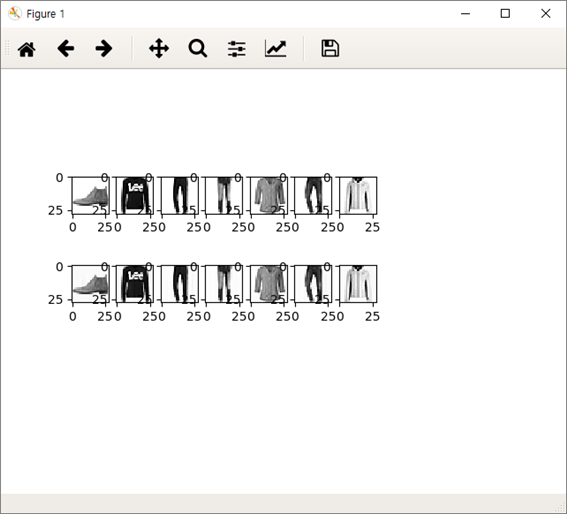
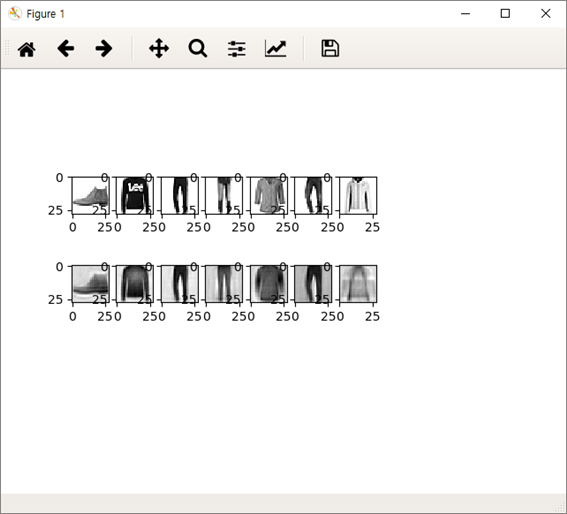
fix bug

Changed region(s): [[0.3598, 0.4981, 0.6896, 0.5914], [0.1199, 0.4981, 0.3298, 0.5914]]

diff --git a/training.py b/training.py
@@ -33,7 +33,7 @@ if __name__ == '__main__':
     
     #typing 'normal or flatted' which you want. it make autoencoder automatically!
     if len(sys.argv) == 1 : 
-        print("[autoencoder] : can't find argument. please write right argument.\n")
+        print("[autoencoder] : argv 인자값 없음 \n")
         print("ex) training [flatted | normal]")
         sys.exit()
 
@@ -45,7 +45,7 @@ if __name__ == '__main__':
 
     if flag == 'flatted':
         autoencoder = auto.Autoencoder(input_size**2, flatted_n_hiddens, batch_size, training_epoch)
-        t = tf.placeholder(tf.float32, [None, input_size])
+        t = tf.placeholder(tf.float32, [None, input_size**2])
     
         x_data = vr.convert_to_fullyconntected(x_train)
         x_test = vr.convert_to_fullyconntected(x_test)
